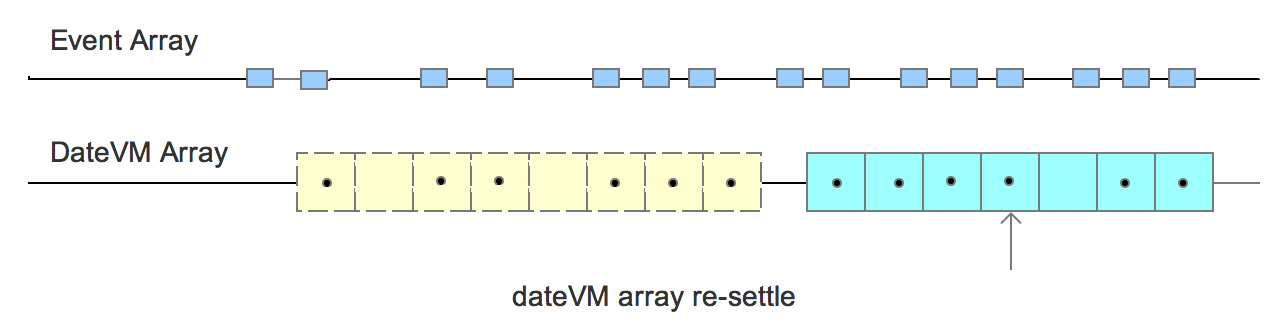
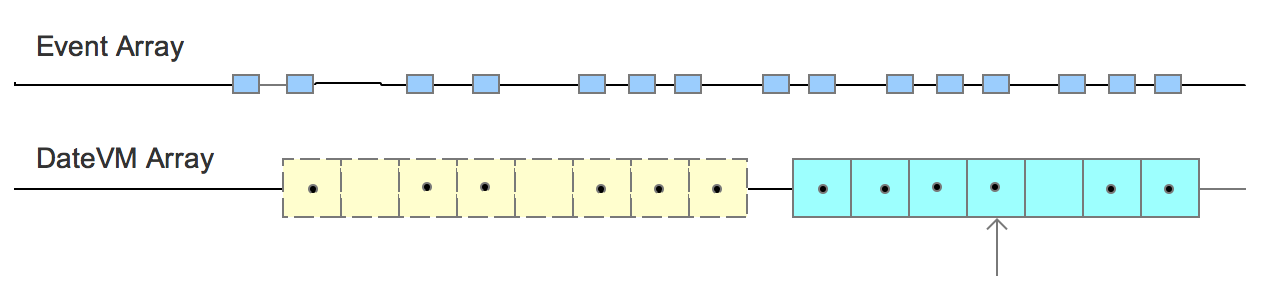
add more images

Changed region(s): [[0.0, 0.4196, 0.9969, 0.8112], [0.0, 0.0839, 0.9969, 0.3357], [0.3738, 0.8671, 0.6231, 0.951]]

diff --git a/README.md b/README.md
@@ -119,6 +119,10 @@ The ESL(event settle logic) is done in _BLDataProvider_, which is a singleton cl
 
 The _BLDateViewModel_ contains a specific date of local time and events that settle in the date. The dateVM array contains all the dateVM for recently visited date, and will preload the previous 31 days and next 31 days.
 
+<img src="https://raw.githubusercontent.com/neolcs/BusyLife/readme/chart/datevm-settle.png" width="800"/>
+
+<img src="https://raw.githubusercontent.com/neolcs/BusyLife/readme/chart/datevm-settle-preload.png" width="800"/>
+
 ```Objective-C
 typedef void (^DateVMUpdateHandler)(void);
 
